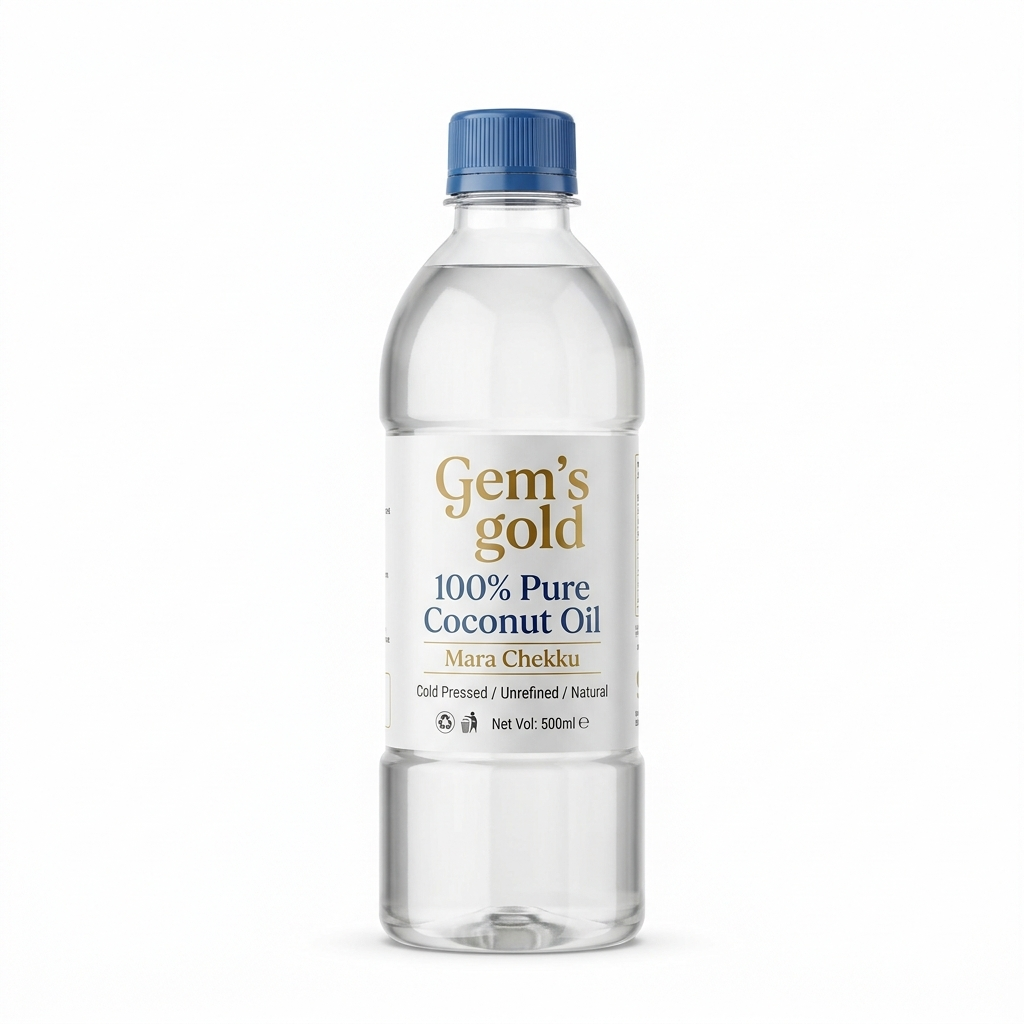
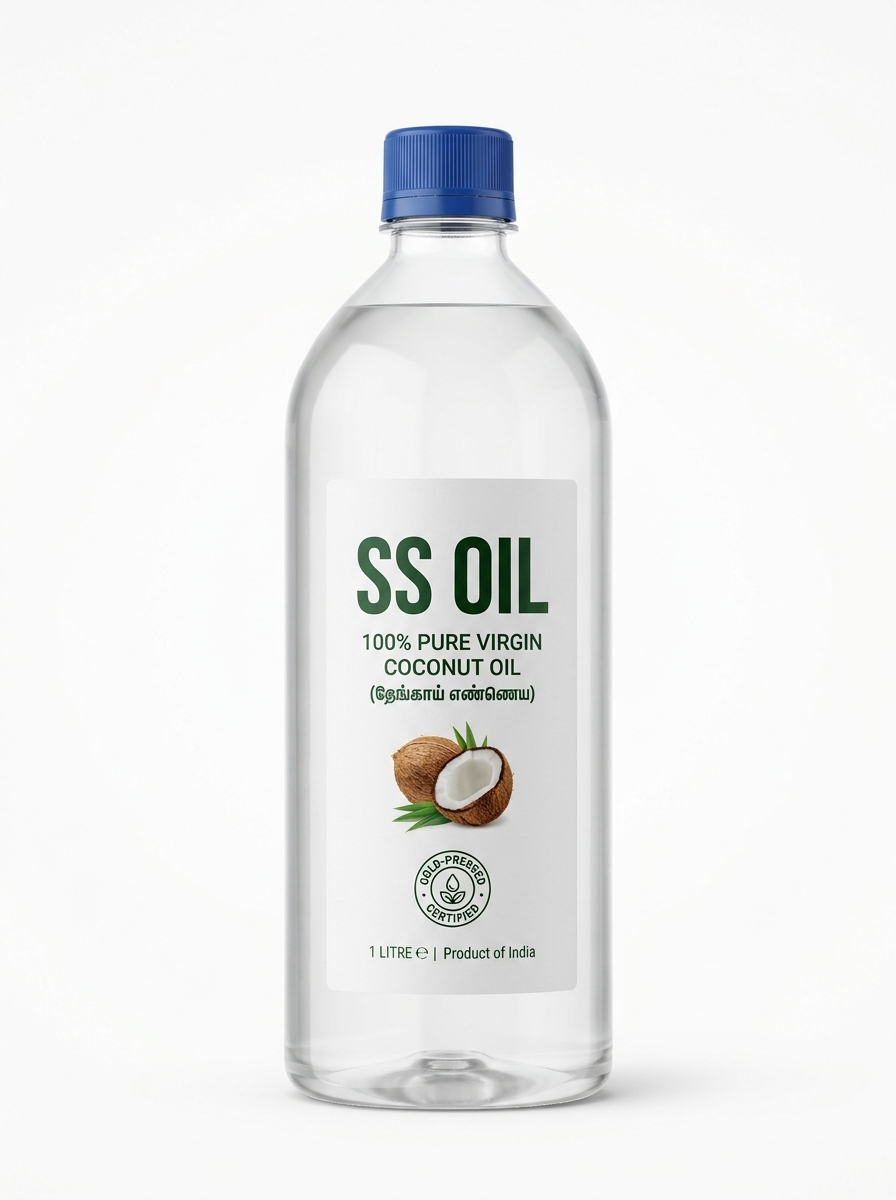
fix: replace all Gem's gold product bottle images with authentic SS OIL branded packshots

Changed region(s): [[0.3125, 0.0938, 0.75, 0.9375]]

diff --git a/client/src/components/GemsGoldQualityBanner.tsx b/client/src/components/GemsGoldQualityBanner.tsx
@@ -1,119 +1,3 @@
-import React from 'react';
-import { useLanguage } from '../context/LanguageContext';
-import { useStore } from '../context/StoreContext';
+import { SSOilQualityBanner } from './SSOilQualityBanner';
 
-export const GemsGoldQualityBanner: React.FC = () => {
-  const { language } = useLanguage();
-  const { settings } = useStore();
-
-  const centerImage = settings.qualityBannerImage || '/quality_banner_bottles.jpg';
-  const badgeText = settings.qualityBannerBadge || (language === 'ta' ? '100% மரச்செக்கு • SS OIL பாரம்பரியம்' : '100% Mara Chekku • SS OIL Heritage');
-
-  return (
-    <section className="bg-[#FFF9D5] py-10 sm:py-14 overflow-hidden">
-      <div className="max-w-7xl mx-auto px-4 sm:px-6 lg:px-8">
-        <div className="grid grid-cols-1 lg:grid-cols-12 gap-8 lg:gap-6 items-center">
-          
-          {/* Left Column: Features 1 & 2 */}
-          <div className="lg:col-span-4 flex flex-col justify-around space-y-8 sm:space-y-12 text-center">
-            
-            {/* Feature 1: Quality You Can Count On */}
-            <div className="flex flex-col items-center">
-              <img
-                src="/showcase/icon_quality_clean.png"
-                alt="Quality You Can Count On"
-                className="w-14 h-14 object-contain mb-3"
-              />
-              <h3 className="text-xl sm:text-2xl font-serif font-normal text-stone-900 mb-2 tracking-tight">
-                {language === 'ta' ? 'நம்பகமான தரம்' : 'Quality You Can Count On'}
-              </h3>
-              <p className="text-xs sm:text-sm text-stone-700 leading-relaxed max-w-xs mx-auto">
-                {language === 'ta'
-                  ? 'ஒவ்வொரு முறையும் கவனமாக தயாரிக்கப்பட்டு தரப் பரிசோதனை செய்யப்படுகிறது.'
-                  : 'Each batch is carefully processed and consistently tested.'}
-              </p>
-            </div>
-
-            {/* Feature 2: Honest Processing */}
-            <div className="flex flex-col items-center">
-              <img
-                src="/showcase/icon_honest_clean.png"
-                alt="Honest Processing"
-                className="w-14 h-12 object-contain mb-3"
-              />
-              <h3 className="text-xl sm:text-2xl font-serif font-normal text-stone-900 mb-2 tracking-tight">
-                {language === 'ta' ? 'நேர்மையான முறை' : 'Honest Processing'}
-              </h3>
-              <p className="text-xs sm:text-sm text-stone-700 leading-relaxed max-w-xs mx-auto">
-                {language === 'ta'
-                  ? 'ரசாயனங்களோ, கலப்படங்களோ இன்றி பெறப்படும் அசல் தூய எண்ணெய்.'
-                  : 'No additives. No chemicals. Just pure, simple oils.'}
-              </p>
-            </div>
-
-          </div>
-
-          {/* Center Column: SS OIL Authentic Cold-Pressed Bottles Presentation */}
-          <div className="lg:col-span-4 flex justify-center order-first lg:order-none">
-            <div className="relative rounded-3xl overflow-hidden shadow-sm max-w-[340px] w-full border border-amber-300/50 bg-gradient-to-b from-amber-50/80 via-white/40 to-amber-100/50 p-6 flex flex-col items-center justify-center group">
-              <div className="relative flex items-center justify-center h-64 sm:h-72 w-full rounded-2xl overflow-hidden">
-                <img
-                  src={centerImage}
-                  alt="SS OIL Pure Cold-Pressed Oils"
-                  className="w-full h-full object-contain drop-shadow-xl group-hover:scale-105 transition-transform duration-500"
-                />
-              </div>
-
-              {/* Quality Seal Badge */}
-              <div className="mt-3 px-3.5 py-1.5 rounded-full bg-forest-950 text-gold-300 text-[10px] font-bold uppercase tracking-wider shadow-sm flex items-center gap-1.5 z-30">
-                <span className="w-1.5 h-1.5 rounded-full bg-emerald-400" />
-                <span>{badgeText}</span>
-              </div>
-            </div>
-          </div>
-
-          {/* Right Column: Features 3 & 4 */}
-          <div className="lg:col-span-4 flex flex-col justify-around space-y-8 sm:space-y-12 text-center">
-            
-            {/* Feature 3: Single-Origin Sourcing */}
-            <div className="flex flex-col items-center">
-              <img
-                src="/showcase/icon_sourcing_clean.png"
-                alt="Single-Origin Sourcing"
-                className="w-14 h-14 object-contain mb-3"
-              />
-              <h3 className="text-xl sm:text-2xl font-serif font-normal text-stone-900 mb-2 tracking-tight">
-                {language === 'ta' ? 'நேரடி விவசாய உற்பத்தி' : 'Single-Origin Sourcing'}
-              </h3>
-              <p className="text-xs sm:text-sm text-stone-700 leading-relaxed max-w-xs mx-auto">
-                {language === 'ta'
-                  ? 'நம்பகமான உள்ளூர் விவசாயிகளிடம் இருந்து பெறப்படும் கலப்படமற்ற தூய விதைகள்.'
-                  : 'We work with trusted local growers to ensure pure, unblended oils with nothing hidden.'}
-              </p>
-            </div>
-
-            {/* Feature 4: Versatile for Indian Cooking */}
-            <div className="flex flex-col items-center">
-              <img
-                src="/showcase/icon_cooking_clean.png"
-                alt="Versatile for Indian Cooking"
-                className="w-14 h-12 object-contain mb-3"
-              />
-              <h3 className="text-xl sm:text-2xl font-serif font-normal text-stone-900 mb-2 tracking-tight">
-                {language === 'ta' ? 'இந்திய சமையலுக்கு ஏற்றது' : 'Versatile for Indian Cooking'}
-              </h3>
-              <p className="text-xs sm:text-sm text-stone-700 leading-relaxed max-w-xs mx-auto">
-                {language === 'ta'
-                  ? 'பொரித்தல், தாளித்தல் என அனைத்து வகை இந்திய சமையலுக்கும் சுவையும் மணமும் தரும்.'
-                  : 'Whether you’re frying, seasoning, or sauteing, our oils deliver.'}
-              </p>
-            </div>
-
-          </div>
-
-        </div>
-      </div>
-    </section>
-  );
-};
-
+export const GemsGoldQualityBanner = SSOilQualityBanner;

diff --git a/client/src/components/SSOilQualityBanner.tsx b/client/src/components/SSOilQualityBanner.tsx
@@ -1,0 +1,118 @@
+import React from 'react';
+import { useLanguage } from '../context/LanguageContext';
+import { useStore } from '../context/StoreContext';
+
+export const SSOilQualityBanner: React.FC = () => {
+  const { language } = useLanguage();
+  const { settings } = useStore();
+
+  const centerImage = settings.qualityBannerImage || '/quality_banner_bottles.jpg';
+  const badgeText = settings.qualityBannerBadge || (language === 'ta' ? '100% மரச்செக்கு • SS OIL பாரம்பரியம்' : '100% Mara Chekku • SS OIL Heritage');
+
+  return (
+    <section className="bg-[#FFF9D5] py-10 sm:py-14 overflow-hidden">
+      <div className="max-w-7xl mx-auto px-4 sm:px-6 lg:px-8">
+        <div className="grid grid-cols-1 lg:grid-cols-12 gap-8 lg:gap-6 items-center">
+          
+          {/* Left Column: Features 1 & 2 */}
+          <div className="lg:col-span-4 flex flex-col justify-around space-y-8 sm:space-y-12 text-center">
+            
+            {/* Feature 1: Quality You Can Count On */}
+            <div className="flex flex-col items-center">
+              <img
+                src="/showcase/icon_quality_clean.png"
+                alt="Quality You Can Count On"
+                className="w-14 h-14 object-contain mb-3"
+              />
+              <h3 className="text-xl sm:text-2xl font-serif font-normal text-stone-900 mb-2 tracking-tight">
+                {language === 'ta' ? 'நம்பகமான தரம்' : 'Quality You Can Count On'}
+              </h3>
+              <p className="text-xs sm:text-sm text-stone-700 leading-relaxed max-w-xs mx-auto">
+                {language === 'ta'
+                  ? 'ஒவ்வொரு முறையும் கவனமாக தயாரிக்கப்பட்டு தரப் பரிசோதனை செய்யப்படுகிறது.'
+                  : 'Each batch is carefully processed and consistently tested.'}
+              </p>
+            </div>
+
+            {/* Feature 2: Honest Processing */}
+            <div className="flex flex-col items-center">
+              <img
+                src="/showcase/icon_honest_clean.png"
+                alt="Honest Processing"
+                className="w-14 h-12 object-contain mb-3"
+              />
+              <h3 className="text-xl sm:text-2xl font-serif font-normal text-stone-900 mb-2 tracking-tight">
+                {language === 'ta' ? 'நேர்மையான முறை' : 'Honest Processing'}
+              </h3>
+              <p className="text-xs sm:text-sm text-stone-700 leading-relaxed max-w-xs mx-auto">
+                {language === 'ta'
+                  ? 'ரசாயனங்களோ, கலப்படங்களோ இன்றி பெறப்படும் அசல் தூய எண்ணெய்.'
+                  : 'No additives. No chemicals. Just pure, simple oils.'}
+              </p>
+            </div>
+
+          </div>
+
+          {/* Center Column: SS OIL Authentic Cold-Pressed Bottles Presentation */}
+          <div className="lg:col-span-4 flex justify-center order-first lg:order-none">
+            <div className="relative rounded-3xl overflow-hidden shadow-sm max-w-[340px] w-full border border-amber-300/50 bg-gradient-to-b from-amber-50/80 via-white/40 to-amber-100/50 p-6 flex flex-col items-center justify-center group">
+              <div className="relative flex items-center justify-center h-64 sm:h-72 w-full rounded-2xl overflow-hidden">
+                <img
+                  src={centerImage}
+                  alt="SS OIL Pure Cold-Pressed Oils"
+                  className="w-full h-full object-contain drop-shadow-xl group-hover:scale-105 transition-transform duration-500"
+                />
+              </div>
+
+              {/* Quality Seal Badge */}
+              <div className="mt-3 px-3.5 py-1.5 rounded-full bg-forest-950 text-gold-300 text-[10px] font-bold uppercase tracking-wider shadow-sm flex items-center gap-1.5 z-30">
+                <span className="w-1.5 h-1.5 rounded-full bg-emerald-400" />
+                <span>{badgeText}</span>
+              </div>
+            </div>
+          </div>
+
+          {/* Right Column: Features 3 & 4 */}
+          <div className="lg:col-span-4 flex flex-col justify-around space-y-8 sm:space-y-12 text-center">
+            
+            {/* Feature 3: Single-Origin Sourcing */}
+            <div className="flex flex-col items-center">
+              <img
+                src="/showcase/icon_sourcing_clean.png"
+                alt="Single-Origin Sourcing"
+                className="w-14 h-14 object-contain mb-3"
+              />
+              <h3 className="text-xl sm:text-2xl font-serif font-normal text-stone-900 mb-2 tracking-tight">
+                {language === 'ta' ? 'நேரடி விவசாய உற்பத்தி' : 'Single-Origin Sourcing'}
+              </h3>
+              <p className="text-xs sm:text-sm text-stone-700 leading-relaxed max-w-xs mx-auto">
+                {language === 'ta'
+                  ? 'நம்பகமான உள்ளூர் விவசாயிகளிடம் இருந்து பெறப்படும் கலப்படமற்ற தூய விதைகள்.'
+                  : 'We work with trusted local growers to ensure pure, unblended oils with nothing hidden.'}
+              </p>
+            </div>
+
+            {/* Feature 4: Versatile for Indian Cooking */}
+            <div className="flex flex-col items-center">
+              <img
+                src="/showcase/icon_cooking_clean.png"
+                alt="Versatile for Indian Cooking"
+                className="w-14 h-12 object-contain mb-3"
+              />
+              <h3 className="text-xl sm:text-2xl font-serif font-normal text-stone-900 mb-2 tracking-tight">
+                {language === 'ta' ? 'அனைத்து இந்திய சமையலுக்கும்' : 'Versatile for Indian Cooking'}
+              </h3>
+              <p className="text-xs sm:text-sm text-stone-700 leading-relaxed max-w-xs mx-auto">
+                {language === 'ta'
+                  ? 'வறுக்க, தாளிக்க அல்லது பொரிக்க என அனைத்து வகையான சமையலுக்கும் ஏற்றது.'
+                  : "Whether you're frying, seasoning, or sauteing, our oils deliver."}
+              </p>
+            </div>
+
+          </div>
+
+        </div>
+      </div>
+    </section>
+  );
+};

diff --git a/client/vite.config.ts b/client/vite.config.ts
@@ -28,42 +28,7 @@ try {
     fs.writeFileSync(path.join(publicDir, 'hero_img_meta.json'), JSON.stringify({ width, height }));
   }
 
-  // Copy high-res artisan product bottle images on pure white isolated background (Zero background scene)
-  const productImages = {
-    'groundnut_oil.jpg': 'C:/Users/acer/.gemini/antigravity-ide/brain/157f7baa-e737-4406-9c5a-a6285e7975d6/groundnut_oil_packshot_1793002980900.jpg',
-    'sunflower_oil.jpg': 'C:/Users/acer/.gemini/antigravity-ide/brain/157f7baa-e737-4406-9c5a-a6285e7975d6/sunflower_oil_packshot_1793003005862.jpg',
-    'sesame_oil.jpg': 'C:/Users/acer/.gemini/antigravity-ide/brain/157f7baa-e737-4406-9c5a-a6285e7975d6/sesame_oil_packshot_1793003027235.jpg',
-    'coconut_oil.jpg': 'C:/Users/acer/.gemini/antigravity-ide/brain/157f7baa-e737-4406-9c5a-a6285e7975d6/coconut_oil_packshot_1793003064012.jpg',
-    'mustard_oil.jpg': 'C:/Users/acer/.gemini/antigravity-ide/brain/157f7baa-e737-4406-9c5a-a6285e7975d6/mustard_oil_packshot_1793003085250.jpg',
-    'lamp_oil.jpg': 'C:/Users/acer/.gemini/antigravity-ide/brain/157f7baa-e737-4406-9c5a-a6285e7975d6/lamp_oil_packshot_1793003111836.jpg',
-    'rice_bran_oil.jpg': 'C:/Users/acer/.gemini/antigravity-ide/brain/e347a522-bcec-40cb-b43d-a6babc8e170c/rice_bran_oil_product_1792733112941.jpg',
-  };
-  const productsDir = path.join(publicDir, 'products');
-  if (!fs.existsSync(productsDir)) {
-    fs.mkdirSync(productsDir, { recursive: true });
-  }
-  for (const [filename, srcPath] of Object.entries(productImages)) {
-    if (fs.existsSync(srcPath)) {
-      fs.copyFileSync(srcPath, path.join(productsDir, filename));
-    }
-  }
-
-  // Copy Gemedible-style full-width hero banners
-  const bannersDir = path.join(publicDir, 'banners');
-  if (!fs.existsSync(bannersDir)) {
-    fs.mkdirSync(bannersDir, { recursive: true });
-  }
-  const bannerImages = {
-    'gemedible_exact_hero_banner.jpg': 'C:/Users/acer/.gemini/antigravity-ide/brain/157f7baa-e737-4406-9c5a-a6285e7975d6/gemedible_bottles_closeup_banner_1792997846092.jpg',
-    'groundnut_hero_banner.jpg': 'C:/Users/acer/.gemini/antigravity-ide/brain/157f7baa-e737-4406-9c5a-a6285e7975d6/gemedible_groundnut_banner_1792994963327.jpg',
-    'smart_measuring_banner.jpg': 'C:/Users/acer/.gemini/antigravity-ide/brain/157f7baa-e737-4406-9c5a-a6285e7975d6/gemedible_smart_measuring_banner_1792994982125.jpg',
-    'sesame_sunflower_banner.jpg': 'C:/Users/acer/.gemini/antigravity-ide/brain/157f7baa-e737-4406-9c5a-a6285e7975d6/gemedible_sesame_sunflower_banner_1792995006397.jpg',
-  };
-  for (const [filename, srcPath] of Object.entries(bannerImages)) {
-    if (fs.existsSync(srcPath)) {
-      fs.copyFileSync(srcPath, path.join(bannersDir, filename));
-    }
-  }
+  // Products and banners are managed locally in public/products and public/banners
 } catch (e) {
   console.error('Failed to copy mockup image:', e);
 }

diff --git a/client/src/App.tsx b/client/src/App.tsx
@@ -7,7 +7,7 @@ import { OurProductRange } from './components/OurProductRange';
 import { FeaturedProducts } from './components/FeaturedProducts';
 import { PureDifference } from './components/PureDifference';
 import { MakeTheSwitchBanner } from './components/MakeTheSwitchBanner';
-import { GemsGoldQualityBanner } from './components/GemsGoldQualityBanner';
+import { SSOilQualityBanner } from './components/SSOilQualityBanner';
 import { HomeFeaturedVideoBanner } from './components/HomeFeaturedVideoBanner';
 import { ReelsCarouselSection } from './components/ReelsCarouselSection';
 import { CraftsmanshipVisualizer } from './components/CraftsmanshipVisualizer';
@@ -533,10 +533,10 @@ export function App() {
           />
         )}
 
-        {/* Route: / (Default Flagship Homepage - Gemedible Exact Layout) */}
+        {/* Route: / (Default Flagship Homepage) */}
         {(currentPath === '/' || currentPath === '') && (
           <>
-            {/* 1. Horizontal Standing Bottles Row (Matching gemedible.com screenshot) */}
+            {/* 1. Horizontal Standing Bottles Row */}
             <CategoryCircles
               onSelectCategory={(slug) => {
                 setSelectedCategory(slug);
@@ -558,13 +558,13 @@ export function App() {
             {/* 2. 4 Value Pillars: 100% Pure & Natural, Good for Health, Premium Quality, Sustainable */}
             <ValuePillars />
 
-            {/* Gem's Gold 4 Quality Pillars (Quality You Can Count On, Honest Processing, Sourcing, Indian Cooking) */}
-            <GemsGoldQualityBanner />
+            {/* SS OIL 4 Quality Pillars (Quality You Can Count On, Honest Processing, Sourcing, Indian Cooking) */}
+            <SSOilQualityBanner />
 
             {/* Homepage Featured Showcase Video (Configured dynamically from Admin Portal) */}
             <HomeFeaturedVideoBanner />
 
-            {/* Gem's Gold Community Reels & Kitchen Stories Carousel */}
+            {/* SS OIL Community Reels & Kitchen Stories Carousel */}
             <ReelsCarouselSection />
 
             {/* 4. Our Product Range & Categories: Pure Oils for a Healthier You */}

diff --git a/client/src/components/CategoryCircles.tsx b/client/src/components/CategoryCircles.tsx
@@ -16,7 +16,7 @@ export const CategoryCircles: React.FC<CategoryCirclesProps> = ({
   onSelectCategory,
   selectedCategory,
 }) => {
-  // Standing bottles matching gemedible.com screenshot: Groundnut, Sunflower, Mustard, Lamp, Sesame, Coconut (Transparent PNGs)
+  // Standing bottles: Groundnut, Sunflower, Mustard, Lamp, Sesame, Coconut (Transparent PNGs)
   const categories: CategoryItem[] = [
     {
       id: 'groundnut',
@@ -87,7 +87,7 @@ export const CategoryCircles: React.FC<CategoryCirclesProps> = ({
                 <div className="absolute -bottom-1 w-14 h-2 bg-black/15 blur-xs rounded-full pointer-events-none group-hover:scale-110 transition-transform" />
               </div>
 
-              {/* Bottle Title Label - matching exact reddish-brown serif typography from gemedible screenshot */}
+              {/* Bottle Title Label - matching exact reddish-brown serif typography */}
               <span className={`mt-2.5 text-xs sm:text-[13px] font-serif font-bold tracking-tight text-center transition-colors whitespace-nowrap ${
                 isSelected ? 'text-[#b32d2e] underline font-extrabold' : 'text-[#8b2b2b] group-hover:text-[#b32d2e]'
               }`}>

diff --git a/client/src/components/Hero.tsx b/client/src/components/Hero.tsx
@@ -13,11 +13,11 @@ export const Hero: React.FC<HeroProps> = ({ onShopNow, onSelectCategory }) => {
   const [currentSlide, setCurrentSlide] = useState(0);
   const [isPaused, setIsPaused] = useState(false);
 
-  // Slides matching the exact screenshot from gemedible.com
+  // Slides matching the flagship homepage layout
   const slides = [
     {
       id: 'conveyor-bottling',
-      bannerImage: '/banners/gemedible_exact_hero_banner.jpg',
+      bannerImage: '/banners/ssoil_bottling_hero_banner.jpg',
       headline: (
         <>
           {language === 'ta' ? (

diff --git a/client/src/components/Navbar.tsx b/client/src/components/Navbar.tsx
@@ -96,7 +96,7 @@ export const Navbar: React.FC<NavbarProps> = ({
 
   return (
     <>
-      {/* 1. TOP ANNOUNCEMENT GREY BAR (Exact match to gemedible.com screenshot) */}
+      {/* 1. TOP ANNOUNCEMENT GREY BAR */}
       {settings.announcementEnabled !== false && (
         <div className="bg-[#e2e2e2] text-stone-800 text-xs sm:text-[13px] font-normal py-2 px-4 sm:px-8 flex items-center justify-between border-b border-stone-300/80 select-none">
           <span className="tracking-wide">

diff --git a/client/src/index.css b/client/src/index.css
@@ -154,7 +154,7 @@
   will-change: transform;
 }
 
-/* Continuous Right-to-Left Standing Bottles Marquee (Below Gem's Gold) */
+/* Continuous Right-to-Left Standing Bottles Marquee */
 @keyframes bottlesMarquee {
   0% {
     transform: translate3d(0, 0, 0);
